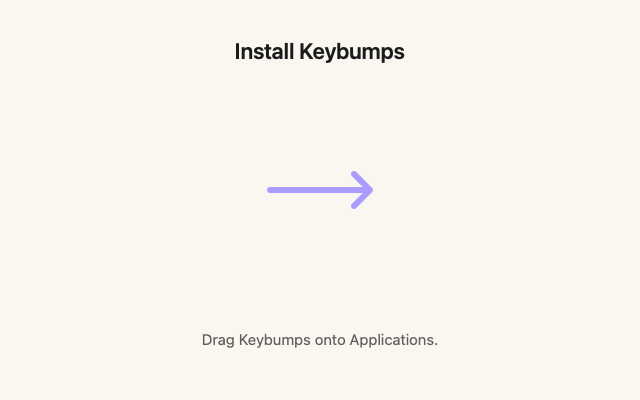
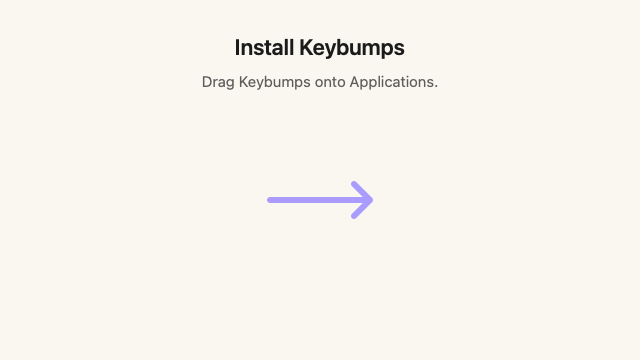
fix: #438 the instruction sits under the title, clear of Finder's tab and path bars

diff --git a/apps/macos/scripts/dmg/render-background.swift b/apps/macos/scripts/dmg/render-background.swift
@@ -12,10 +12,12 @@ guard arguments.count == 2 else {
 }
 let output = URL(fileURLWithPath: arguments[1])
 
-// The window's content size in points, and the icon centers dmg-settings.py uses.
+// The window's content size in points, and the icon centers dmg-settings.py uses. Finder's tab
+// bar and path bar are global settings that a disk image can't turn off, and they take about 58pt
+// from the bottom, so everything that matters sits in the top 300pt.
 let width: CGFloat = 640
-let height: CGFloat = 400
-let iconY: CGFloat = 190
+let height: CGFloat = 360
+let iconY: CGFloat = 200
 let appX: CGFloat = 170
 let applicationsX: CGFloat = 470
 
@@ -59,11 +61,11 @@ func render(scale: CGFloat) throws {
     let title = NSAttributedString(string: "Install Keybumps", attributes: [
         .font: NSFont.systemFont(ofSize: 22, weight: .semibold), .foregroundColor: ink, .paragraphStyle: paragraph,
     ])
-    title.draw(in: NSRect(x: 0, y: flipped(68), width: width, height: 30))
+    title.draw(in: NSRect(x: 0, y: flipped(64), width: width, height: 30))
     let instruction = NSAttributedString(string: "Drag Keybumps onto Applications.", attributes: [
         .font: NSFont.systemFont(ofSize: 15), .foregroundColor: ink.withAlphaComponent(0.7), .paragraphStyle: paragraph,
     ])
-    instruction.draw(in: NSRect(x: 0, y: flipped(352), width: width, height: 22))
+    instruction.draw(in: NSRect(x: 0, y: flipped(94), width: width, height: 22))
 
     NSGraphicsContext.restoreGraphicsState()
     let name = scale == 1 ? "background.png" : "background@\(Int(scale))x.png"

diff --git a/apps/macos/scripts/dmg/dmg-settings.py b/apps/macos/scripts/dmg/dmg-settings.py
@@ -20,8 +20,9 @@ icon = os.path.join(app, "Contents", "Resources", "Keybumps.icns")
 
 # background.png has a background@2x.png beside it, which dmgbuild combines into a Retina image.
 background = defines["background"]  # noqa: F821
-# The frame includes the title bar (28pt), so the content area matches the 640x400 background.
-window_rect = ((200, 120), (640, 428))
+# The frame includes the title bar (28pt), so the content area matches the 640x360 background.
+# A Finder with its tab bar or path bar on shows less, which the art leaves room for.
+window_rect = ((200, 120), (640, 388))
 default_view = "icon-view"
 show_status_bar = False
 show_tab_view = False
@@ -31,6 +32,6 @@ show_sidebar = False
 icon_size = 128
 text_size = 13
 icon_locations = {
-    app_name: (170, 190),
-    "Applications": (470, 190),
+    app_name: (170, 200),
+    "Applications": (470, 200),
 }
